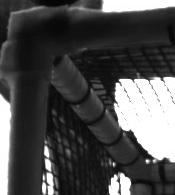
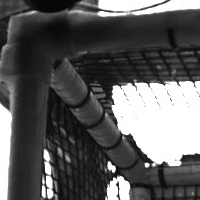
Improve template matching in video preprocessing

diff --git a/HumanBat/process_video.py b/HumanBat/process_video.py
@@ -86,10 +86,10 @@ def rotate_and_crop(img, img_ref, template, cropped_width, cropped_height):
                         homography, (width, height))
 
     # Apply template Matching
-    res = cv2.matchTemplate(transformed_img,template,cv2.TM_SQDIFF_NORMED)
+    res = cv2.matchTemplate(transformed_img,template,cv2.TM_CCOEFF_NORMED)
     min_val, max_val, min_loc, max_loc = cv2.minMaxLoc(res)
 
-    top_left = min_loc
+    top_left = max_loc
     bottom_right = (top_left[0] + cropped_width, top_left[1] + cropped_height)
 
     final_img = transformed_img[top_left[1]:bottom_right[1],top_left[0]:bottom_right[0]]
@@ -152,6 +152,7 @@ def preprocess_raw_video(room_name, session_name, config):
             # Read video
             cap = cv2.VideoCapture(camera_paths[camera])
             num_frames = int(cap.get(cv2.CAP_PROP_FRAME_COUNT))
+            cap.set(cv2.CAP_PROP_POS_FRAMES, 50) # The first few frames have more artifacts, skip them here.
             ret, frame = cap.read()
             # Compute rigid homography on first frame. Use this homography transformation for entire video
             # 5000x5000 is a place holder to retain as much of the frame as possible after cropping.
